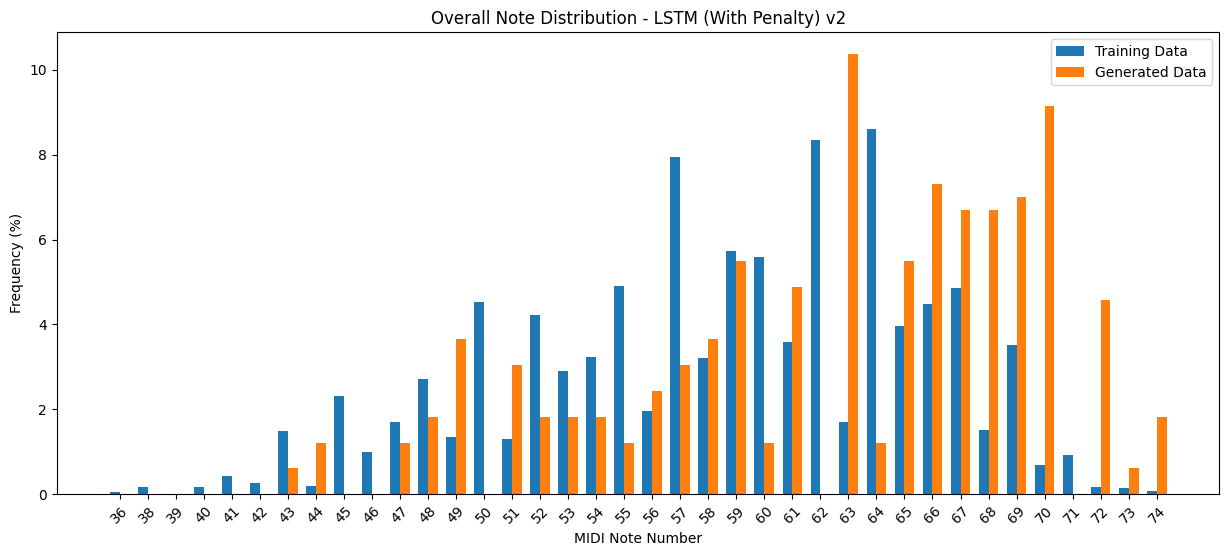
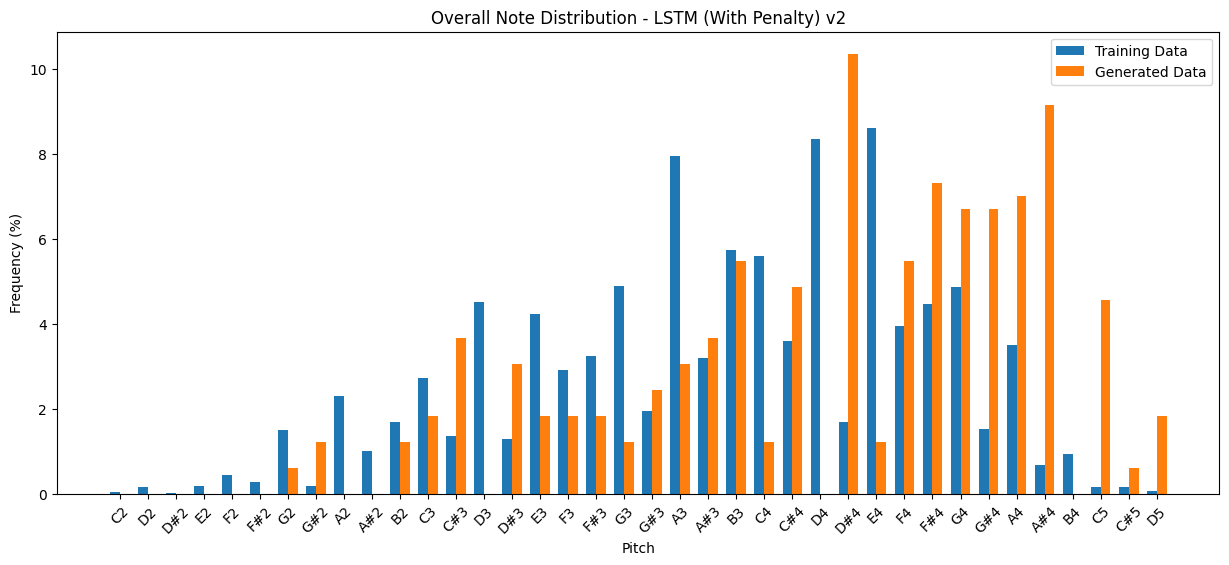
Update MIDI to pitch conversion and regenerate distribution plots

diff --git a/evaluate_model.py b/evaluate_model.py
@@ -101,6 +101,16 @@ def get_note_distribution(data: List[List[int]] | List[List[List[int]]], voice_i
     # Convert to percentages
     return {note: count/total * 100 for note, count in counter.items()}
 
+def midi_to_pitch(midi_number: int) -> str:
+    """
+    Convert MIDI number to pitch name (e.g., 60 -> 'C4', 61 -> 'C#4', etc.)
+    MIDI number 60 corresponds to middle C (C4)
+    """
+    pitch_names = ['C', 'C#', 'D', 'D#', 'E', 'F', 'F#', 'G', 'G#', 'A', 'A#', 'B']
+    octave = (midi_number - 12) // 12
+    note = midi_number % 12
+    return f"{pitch_names[note]}{octave}"
+
 def plot_distribution_comparison(train_dist: Dict[int, float],
                                gen_dist: Dict[int, float],
                                title: str = "Note Distribution Comparison",
@@ -124,30 +134,73 @@ def plot_distribution_comparison(train_dist: Dict[int, float],
     train_values = [train_dist.get(note, 0) for note in all_notes]
     gen_values = [gen_dist.get(note, 0) for note in all_notes]
     
+    # Convert MIDI numbers to pitch names
+    pitch_names = [midi_to_pitch(note) for note in all_notes]
+    
     # Create plot
     plt.figure(figsize=(15, 6))
     width = 0.35
     plt.bar(x - width/2, train_values, width, label='Training Data')
     plt.bar(x + width/2, gen_values, width, label='Generated Data')
     
-    plt.xlabel('MIDI Note Number')
+    plt.xlabel('Pitch')
     plt.ylabel('Frequency (%)')
     plt.title(title)
     plt.legend()
-    plt.xticks(x, all_notes, rotation=45)
+    plt.xticks(x, pitch_names, rotation=45)
     
     if save_path:
         plt.savefig(save_path, bbox_inches='tight')
         print(f"Saved plot to {save_path}")
     plt.close()
 
+def test_midi_to_pitch():
+    """
+    Test the MIDI to pitch conversion function
+    """
+    test_cases = [
+        (60, "C4"),  # Middle C
+        (61, "C#4"),
+        (72, "C5"),
+        (48, "C3"),
+        (69, "A4"),  # A440
+        (57, "A3"),
+        (45, "A2")
+    ]
+    
+    print("\nTesting MIDI to pitch conversion:")
+    for midi, expected in test_cases:
+        result = midi_to_pitch(midi)
+        print(f"MIDI {midi} -> {result} (Expected: {expected})")
+        assert result == expected, f"Error: MIDI {midi} converted to {result}, expected {expected}"
+
 def main():
+    # Test MIDI to pitch conversion first
+    test_midi_to_pitch()
+    
     # Paths
     output_dir = "midi_outputs"  # Directory containing generated MIDI files
+    training_data_path = "atb_parts.json"  # Path to training data
     results_dir = "evaluation_results"
     
-    print("Starting MIDI conversion evaluation...")
-    print(f"Output directory: {output_dir}")
+    # List of model variants to evaluate
+    model_variants = [
+        ("lstm_nopen_1", "LSTM (No Penalty) v1"),
+        ("lstm_nopen_2", "LSTM (No Penalty) v2"),
+        ("lstm_nopen_3", "LSTM (No Penalty) v3"),
+        ("lstm_pen_1", "LSTM (With Penalty) v1"),
+        ("lstm_pen_2", "LSTM (With Penalty) v2"),
+        ("lstm_pen_3", "LSTM (With Penalty) v3"),
+        ("transformer_nopen_1", "Transformer (No Penalty) v1"),
+        ("transformer_nopen_2", "Transformer (No Penalty) v2"),
+        ("transformer_nopen_3", "Transformer (No Penalty) v3"),
+        ("transformer_pen_1", "Transformer (With Penalty) v1"),
+        ("transformer_pen_2", "Transformer (With Penalty) v2"),
+        ("transformer_pen_3", "Transformer (With Penalty) v3")
+    ]
+    
+    print("Starting evaluation...")
+    print(f"Training data path: {training_data_path}")
     
     # Create results directory
     try:
@@ -157,7 +210,7 @@ def main():
         print(f"Error creating results directory: {str(e)}")
         return
     
-    # Evaluate MIDI conversion failures
+    # 1. Evaluate MIDI conversion failures
     print("\nChecking MIDI files...")
     total, failed, failure_rate = count_midi_failures(output_dir)
     print(f"\nMIDI Conversion Results:")
@@ -165,7 +218,7 @@ def main():
     print(f"Failed files: {failed}")
     print(f"Failure rate: {failure_rate:.2f}%")
     
-    # Save results to a text file
+    # Save MIDI conversion results
     results_file = os.path.join(results_dir, "midi_conversion_results.txt")
     with open(results_file, 'w') as f:
         f.write("MIDI Conversion Evaluation Results\n")
@@ -175,6 +228,61 @@ def main():
         f.write(f"Failure rate: {failure_rate:.2f}%\n")
     
     print(f"\nResults saved to {results_file}")
+    
+    # 2. Compare note distributions
+    print("\nLoading training data...")
+    try:
+        with open(training_data_path, 'r') as f:
+            training_data = json.load(f)
+        print(f"Loaded training data with {len(training_data)} sequences")
+    except Exception as e:
+        print(f"Error loading training data: {str(e)}")
+        return
+    
+    # Calculate training distributions
+    print("\nCalculating training distributions...")
+    train_dist_all = get_note_distribution(training_data, is_atb=True)
+    train_dist_bass = get_note_distribution(training_data, voice_idx=3, is_atb=True)
+    
+    # Evaluate each model variant
+    for model_id, model_name in model_variants:
+        print(f"\nEvaluating {model_name}...")
+        
+        # Load generated results
+        pred_file = f"Junhan Cui/OUTPUT/satb_predictions_{model_id}.json"
+        try:
+            with open(pred_file, 'r') as f:
+                generated_data = json.load(f)
+            print(f"Loaded {len(generated_data)} sequences from {model_id}")
+        except Exception as e:
+            print(f"Error loading generated results for {model_id}: {str(e)}")
+            continue
+        
+        if not generated_data:
+            print(f"Warning: No generated data found for {model_id}")
+            continue
+        
+        # Calculate generated distributions
+        gen_dist_all = get_note_distribution(generated_data, is_atb=False)
+        gen_dist_bass = get_note_distribution(generated_data, voice_idx=3, is_atb=False)
+        
+        # Plot overall distribution
+        if train_dist_all and gen_dist_all:
+            plot_distribution_comparison(
+                train_dist_all,
+                gen_dist_all,
+                title=f"Overall Note Distribution - {model_name}",
+                save_path=os.path.join(results_dir, f"overall_distribution_{model_id}.png")
+            )
+        
+        # Plot bass distribution
+        if train_dist_bass and gen_dist_bass:
+            plot_distribution_comparison(
+                train_dist_bass,
+                gen_dist_bass,
+                title=f"Bass Voice Note Distribution - {model_name}",
+                save_path=os.path.join(results_dir, f"bass_distribution_{model_id}.png")
+            )
 
 if __name__ == "__main__":
     main() 
